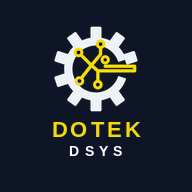
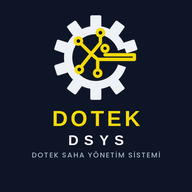
DSYS ikonuna alt yazı, sistemler sayfası
Claude-Session: https://claude.ai/code/session_01Nun9YyL3r1pbK7EG3qSmmf

Changed region(s): [[0.1562, 0.0625, 0.8438, 0.8438]]

diff --git a/public/sistemler.html b/public/sistemler.html
@@ -1,0 +1,72 @@
+<!doctype html>
+<html lang="tr">
+<head>
+<meta charset="utf-8">
+<meta name="viewport" content="width=device-width,initial-scale=1,viewport-fit=cover">
+<meta name="robots" content="noindex">
+<meta name="theme-color" content="#0D1526">
+<title>Dotek Sistemleri</title>
+<link rel="icon" type="image/png" href="/ikon/favicon-48.png?v=3">
+<link href="https://fonts.googleapis.com/css2?family=Poppins:wght@400;500;600;700&display=swap" rel="stylesheet">
+<style>
+:root{--bg:#0D1526;--kart:#141f36;--cizgi:#24324f;--sari:#F5D90A;--yazi:#eef1f6;--soluk:#93a0b8}
+*{box-sizing:border-box;margin:0}
+body{background:var(--bg);color:var(--yazi);font-family:Poppins,system-ui,sans-serif;min-height:100vh;padding:28px 16px 40px}
+.ust{max-width:980px;margin:0 auto 26px;display:flex;align-items:center;gap:14px}
+.ust img{width:54px;height:54px}
+.ust b{font-size:26px;letter-spacing:.14em;color:var(--sari);display:block;line-height:1}
+.ust span{font-size:12px;letter-spacing:.22em;color:var(--soluk)}
+h1{max-width:980px;margin:0 auto 6px;font-size:15px;font-weight:500;color:var(--soluk);letter-spacing:.08em}
+.izgara{max-width:980px;margin:0 auto;display:grid;grid-template-columns:repeat(auto-fill,minmax(210px,1fr));gap:16px}
+a.k{display:flex;flex-direction:column;align-items:center;text-align:center;text-decoration:none;color:inherit;background:var(--kart);border:1px solid var(--cizgi);border-radius:22px;padding:26px 16px 22px;transition:.15s}
+a.k:hover{border-color:var(--sari);transform:translateY(-2px)}
+a.k.yok{opacity:.55;cursor:default}
+a.k.yok:hover{border-color:var(--cizgi);transform:none}
+.lg{width:92px;height:92px;border-radius:22px;background:var(--bg);display:grid;place-items:center;margin-bottom:16px;border:1px solid var(--cizgi);overflow:hidden}
+.lg img{width:100%;height:100%;object-fit:cover}
+.lg svg{width:54px;height:54px}
+.d{font-size:13px;letter-spacing:.32em;color:var(--sari);font-weight:700}
+.kod{font-size:26px;letter-spacing:.3em;font-weight:700;margin:2px 0 4px;padding-left:.3em}
+.ad{font-size:11.5px;letter-spacing:.14em;color:var(--soluk);text-transform:uppercase}
+.dur{margin-top:14px;font-size:11.5px;padding:4px 12px;border-radius:99px;background:#1f8f4a22;color:#5fd38d}
+.yok .dur{background:#ffffff10;color:var(--soluk)}
+.alt{max-width:980px;margin:30px auto 0;color:var(--soluk);font-size:11.5px}
+</style>
+</head>
+<body>
+<div class="ust"><img src="/ikon/ikon-192.png?v=3" alt=""><div><b>DOTEK</b><span>ENERJİ SİSTEMLERİ</span></div></div>
+<h1>SİSTEMLER</h1>
+<div class="izgara">
+
+ <a class="k" href="/dotek">
+  <div class="lg"><img src="/ikon/ikon-192.png?v=3" alt=""></div>
+  <div class="d">DOTEK</div><div class="kod">DSYS</div>
+  <div class="ad">Saha Yönetim Sistemi</div>
+  <div class="dur">● Kullanımda</div>
+ </a>
+
+ <a class="k yok" href="#" onclick="return false">
+  <div class="lg"><svg viewBox="0 0 24 24" fill="none" stroke="#F5D90A" stroke-width="1.6" stroke-linecap="round"><circle cx="9" cy="8" r="3.2"/><path d="M3.5 19c.6-3.2 2.8-5 5.5-5s4.9 1.8 5.5 5"/><path d="M16 6h5M16 10h5M17 14h4"/></svg></div>
+  <div class="d">DOTEK</div><div class="kod">DPMS</div>
+  <div class="ad">Personel Yönetim Sistemi</div>
+  <div class="dur">Bağlantı eklenecek</div>
+ </a>
+
+ <a class="k yok" href="#" onclick="return false">
+  <div class="lg"><svg viewBox="0 0 24 24" fill="none" stroke="#F5D90A" stroke-width="1.6" stroke-linecap="round"><rect x="4" y="3" width="16" height="18" rx="2"/><path d="M8 8h8M8 12h8M8 16h5"/></svg></div>
+  <div class="d">DOTEK</div><div class="kod">DAKS</div>
+  <div class="ad">—</div>
+  <div class="dur">Bağlantı eklenecek</div>
+ </a>
+
+ <a class="k yok" href="#" onclick="return false">
+  <div class="lg"><svg viewBox="0 0 24 24" fill="none" stroke="#F5D90A" stroke-width="1.6" stroke-linecap="round"><rect x="3.5" y="5" width="17" height="15" rx="2"/><path d="M3.5 10h17M8 3v4M16 3v4"/><path d="M8.5 14.5l2 2 4-4"/></svg></div>
+  <div class="d">DOTEK</div><div class="kod">DRYS</div>
+  <div class="ad">Randevu Yönetim Sistemi</div>
+  <div class="dur">Yakında</div>
+ </a>
+
+</div>
+<p class="alt">Dotek Enerji · tüm sistemler tek çatı altında</p>
+</body>
+</html>

diff --git a/public/dotek.html b/public/dotek.html
@@ -5,9 +5,9 @@
 <meta name="viewport" content="width=device-width,initial-scale=1">
 <title>Dotek Saha Yönetim Sistemi</title>
 <meta name="theme-color" content="#0D1526">
-<link rel="manifest" href="/dotek.webmanifest?v=2">
-<link rel="icon" type="image/png" sizes="48x48" href="/ikon/favicon-48.png?v=2">
-<link rel="apple-touch-icon" href="/ikon/apple-touch-icon.png?v=2">
+<link rel="manifest" href="/dotek.webmanifest?v=3">
+<link rel="icon" type="image/png" sizes="48x48" href="/ikon/favicon-48.png?v=3">
+<link rel="apple-touch-icon" href="/ikon/apple-touch-icon.png?v=3">
 <meta name="apple-mobile-web-app-capable" content="yes">
 <meta name="mobile-web-app-capable" content="yes">
 <meta name="apple-mobile-web-app-status-bar-style" content="black-translucent">
